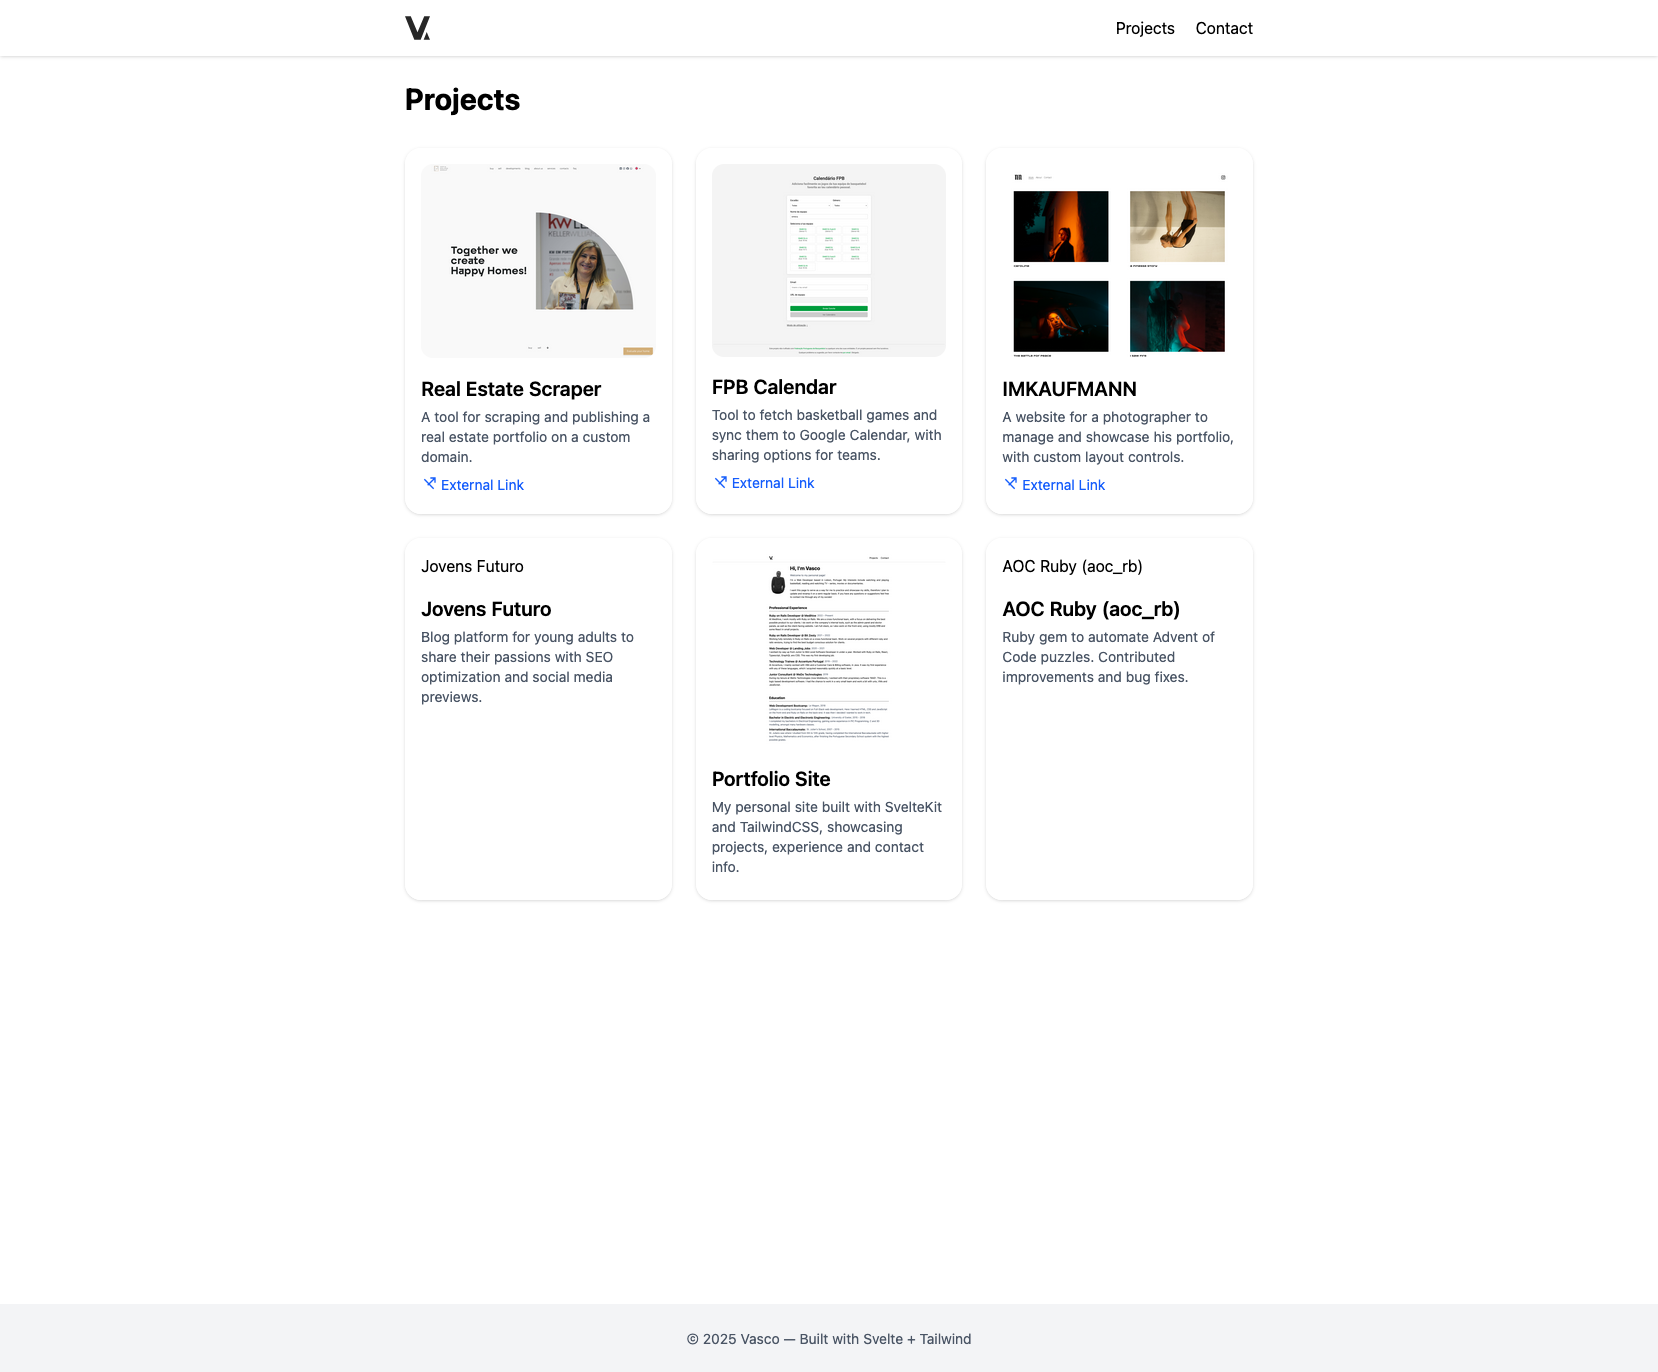
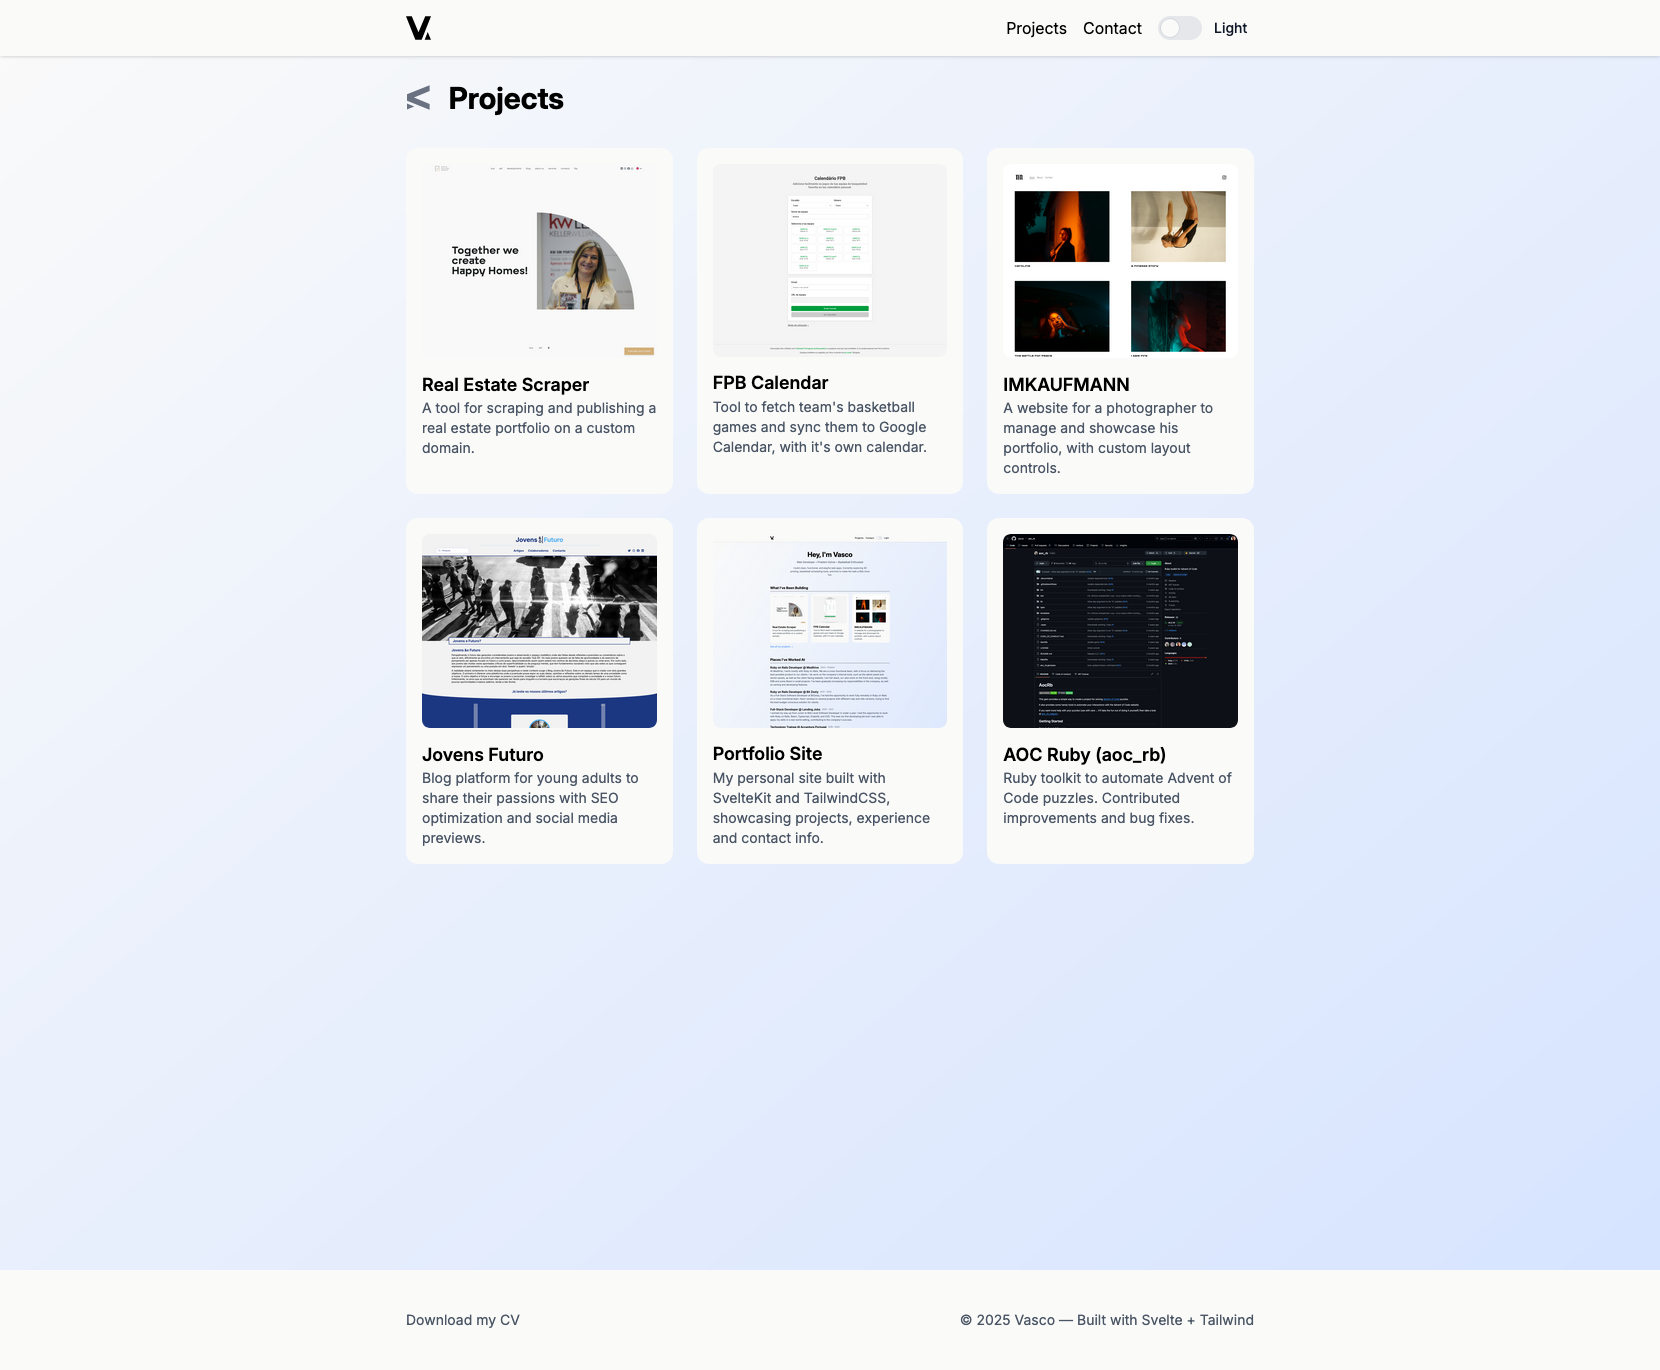
add meta tags, update portfolio images

diff --git a/src/routes/+layout.svelte b/src/routes/+layout.svelte
@@ -3,6 +3,8 @@
 	import Navbar from '$lib/components/Navbar.svelte';
 	import Footer from '$lib/components/Footer.svelte';
 	import { onNavigate } from '$app/navigation';
+	import { page } from '$app/state';
+	import { MetaTags, deepMerge } from 'svelte-meta-tags';
 
 	onNavigate((navigation) => {
 		if (!document.startViewTransition) return;
@@ -15,23 +17,13 @@
 		});
 	});
 
-	let { children } = $props();
+	let { data, children } = $props();
+	let metaTags = $derived(deepMerge(data.baseMetaTags, page.data.pageMetaTags));
 </script>
 
+<MetaTags {...metaTags} />
+
 <svelte:head>
-	<title>VascoKF — Developer Portfolio</title>
-	<meta
-		name="description"
-		content="Vasco KF's personal developer portfolio showcasing his latest web projects, skills and experience."
-	/>
-	<meta name="viewport" content="width=device-width, initial-scale=1" />
-	<meta name="author" content="VascoKF" />
-	<meta property="og:title" content="VascoKF — Developer Portfolio" />
-	<meta
-		property="og:description"
-		content="Showcasing my latest web projects, skills and experience."
-	/>
-	<meta property="og:type" content="website" />
 	<link rel="preconnect" href="https://fonts.googleapis.com" />
 	<link rel="preconnect" href="https://fonts.gstatic.com" crossorigin="anonymous" />
 	<link

diff --git a/src/routes/+layout.ts b/src/routes/+layout.ts
@@ -1,0 +1,31 @@
+import type { MetaTagsProps } from 'svelte-meta-tags';
+
+export const load = ({ url }) => {
+	const baseMetaTags = Object.freeze({
+		title: 'VascoKF — Developer Portfolio',
+		titleTemplate: '%s | VascoKF',
+		description:
+			"Vasco KF's personal developer portfolio showcasing his latest web projects, skills and experience.",
+		canonical: new URL(url.pathname, url.origin).href,
+		openGraph: {
+			type: 'website',
+			url: new URL(url.pathname, url.origin).href,
+			locale: 'en_IE',
+			title: 'VascoKF — Developer Portfolio',
+			description: 'Showcasing my latest web projects, skills and experience.',
+			siteName: 'VascoKF',
+			images: [
+				{
+					url: 'https://www.vascokf.com/images/portfolio.png',
+					alt: 'VascoKF — Developer Portfolio',
+					secureUrl: 'https://www.vascokf.com/images/portfolio.png',
+					type: 'image/png'
+				}
+			]
+		}
+	}) satisfies MetaTagsProps;
+
+	return {
+		baseMetaTags
+	};
+};

diff --git a/src/routes/projects/[slug]/+page.svelte b/src/routes/projects/[slug]/+page.svelte
@@ -4,6 +4,7 @@
 	import { fade } from 'svelte/transition';
 	import Modal from '$lib/components/Modal.svelte';
 	import BackButton from '$lib/components/BackButton.svelte';
+	import { MetaTags } from 'svelte-meta-tags';
 
 	export let data: PageData;
 	export let project: Project = data.project;
@@ -19,14 +20,9 @@
 	}
 </script>
 
-<svelte:head>
-	<title>{project.title} — Vasco KF</title>
-	<meta name="description" content={project.description} />
-</svelte:head>
-
 <section in:fade={{ duration: 100 }} class="mx-auto max-w-4xl p-6">
-  <h1 class="mb-4 text-3xl font-bold" style="view-transition-name: project-title-{project.slug}">
-    <BackButton href="/projects" />
+	<h1 class="mb-4 text-3xl font-bold" style="view-transition-name: project-title-{project.slug}">
+		<BackButton href="/projects" />
 		{project.title}
 	</h1>
 

diff --git a/src/routes/projects/[slug]/+page.ts b/src/routes/projects/[slug]/+page.ts
@@ -1,4 +1,5 @@
 import type { PageLoad } from './$types';
+import type { MetaTagsProps } from 'svelte-meta-tags';
 import projects from '$lib/data/projects.json';
 import type { Project } from '$lib/types';
 import { error } from '@sveltejs/kit';
@@ -11,6 +12,14 @@ export const load: PageLoad = async ({ params }) => {
 	}
 
 	const project: Project = projectData;
+	const pageMetaTags = Object.freeze({
+		title: project.title,
+		description: project.description,
+		openGraph: {
+			title: project.title,
+			description: project.description
+		}
+	}) satisfies MetaTagsProps;
 
-	return { project };
+	return { pageMetaTags, project };
 };

diff --git a/src/routes/+error.svelte b/src/routes/+error.svelte
@@ -1,13 +1,12 @@
 <script lang="ts">
 	import { page } from '$app/state';
+	import { MetaTags } from 'svelte-meta-tags';
 
 	export let error: App.Error | null = page.error;
 	export let status: number = page.status;
 </script>
 
-<svelte:head>
-	<title>{status === 404 ? 'Page Not Found' : `Error ${status}`} — Vasco KF</title>
-</svelte:head>
+<MetaTags title="{status === 404 ? 'Page Not Found' : `Error ${status}`} — Vasco KF" />
 
 <main
 	class="flex min-h-screen items-center justify-center bg-stone-50 p-6 text-center dark:bg-gray-800 dark:text-gray-200"

diff --git a/src/routes/projects/+page.ts b/src/routes/projects/+page.ts
@@ -1,6 +1,19 @@
 import type { PageLoad } from './$types';
+import type { MetaTagsProps } from 'svelte-meta-tags';
 import projects from '$lib/data/projects.json';
 
 export const load: PageLoad = async () => {
-	return { projects };
+	const pageMetaTags = Object.freeze({
+		title: 'Projects',
+		description: 'A collection of my latest web projects.',
+		openGraph: {
+			title: 'Projects',
+			description: 'A collection of my latest web projects.'
+		}
+	}) satisfies MetaTagsProps;
+
+	return {
+		pageMetaTags,
+		projects
+	};
 };

diff --git a/src/routes/contact/+page.ts b/src/routes/contact/+page.ts
@@ -1,0 +1,16 @@
+import type { MetaTagsProps } from 'svelte-meta-tags';
+
+export const load = () => {
+	const pageMetaTags = Object.freeze({
+		title: 'Contact Me',
+		description: 'Use the form below to get in touch with me.',
+		openGraph: {
+			title: 'Contact Me',
+			description: 'Use the form below to get in touch with me.'
+		}
+	}) satisfies MetaTagsProps;
+
+	return {
+		pageMetaTags
+	};
+};
